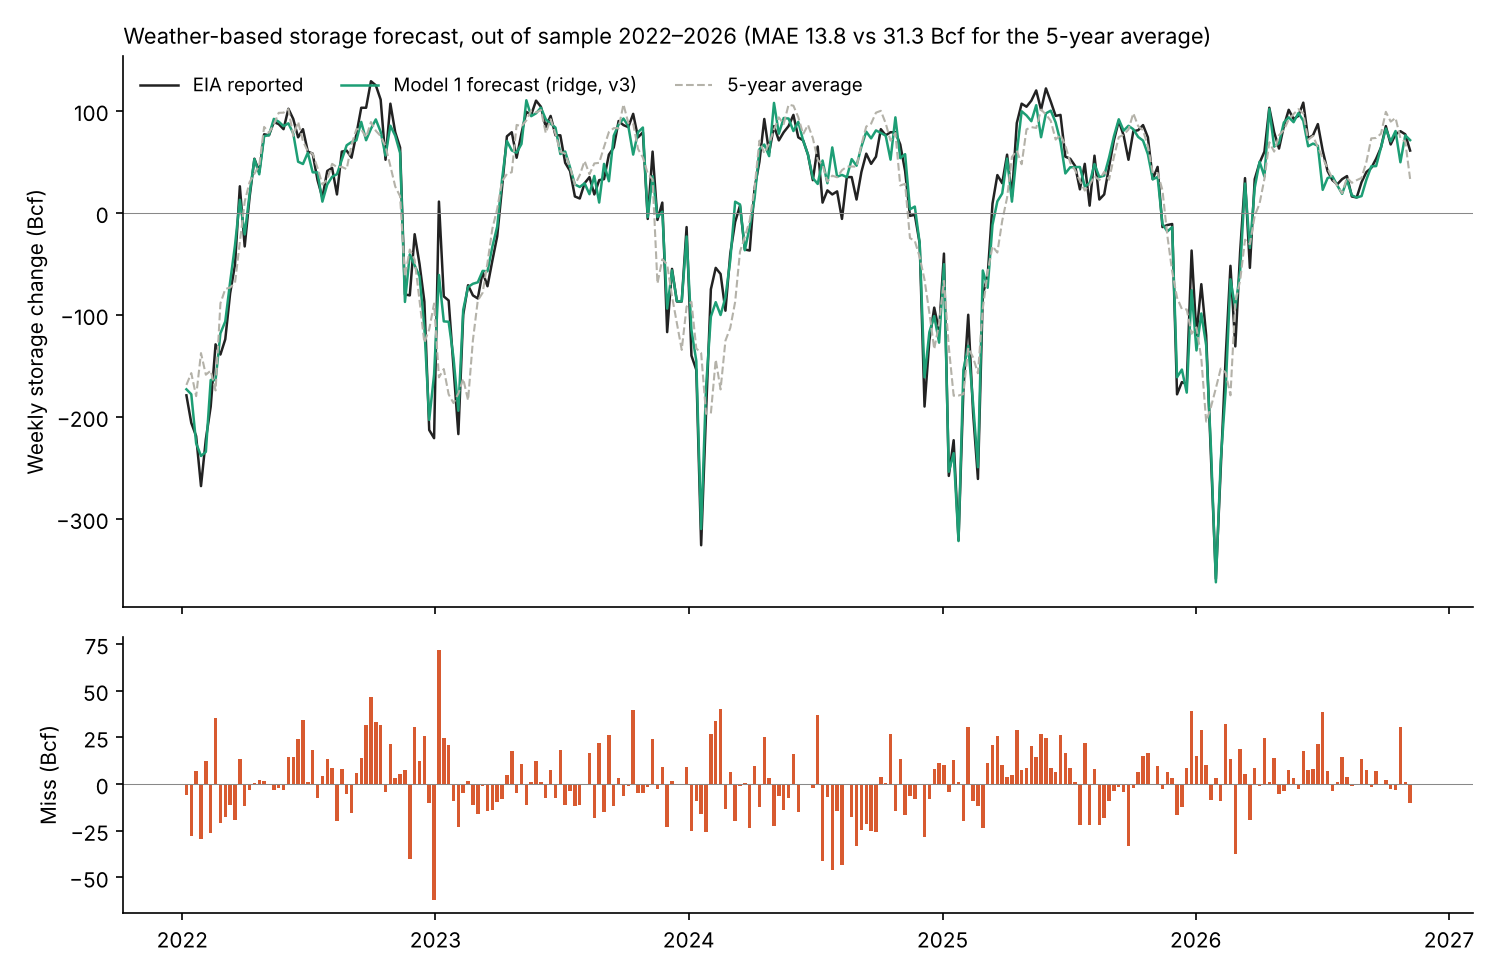
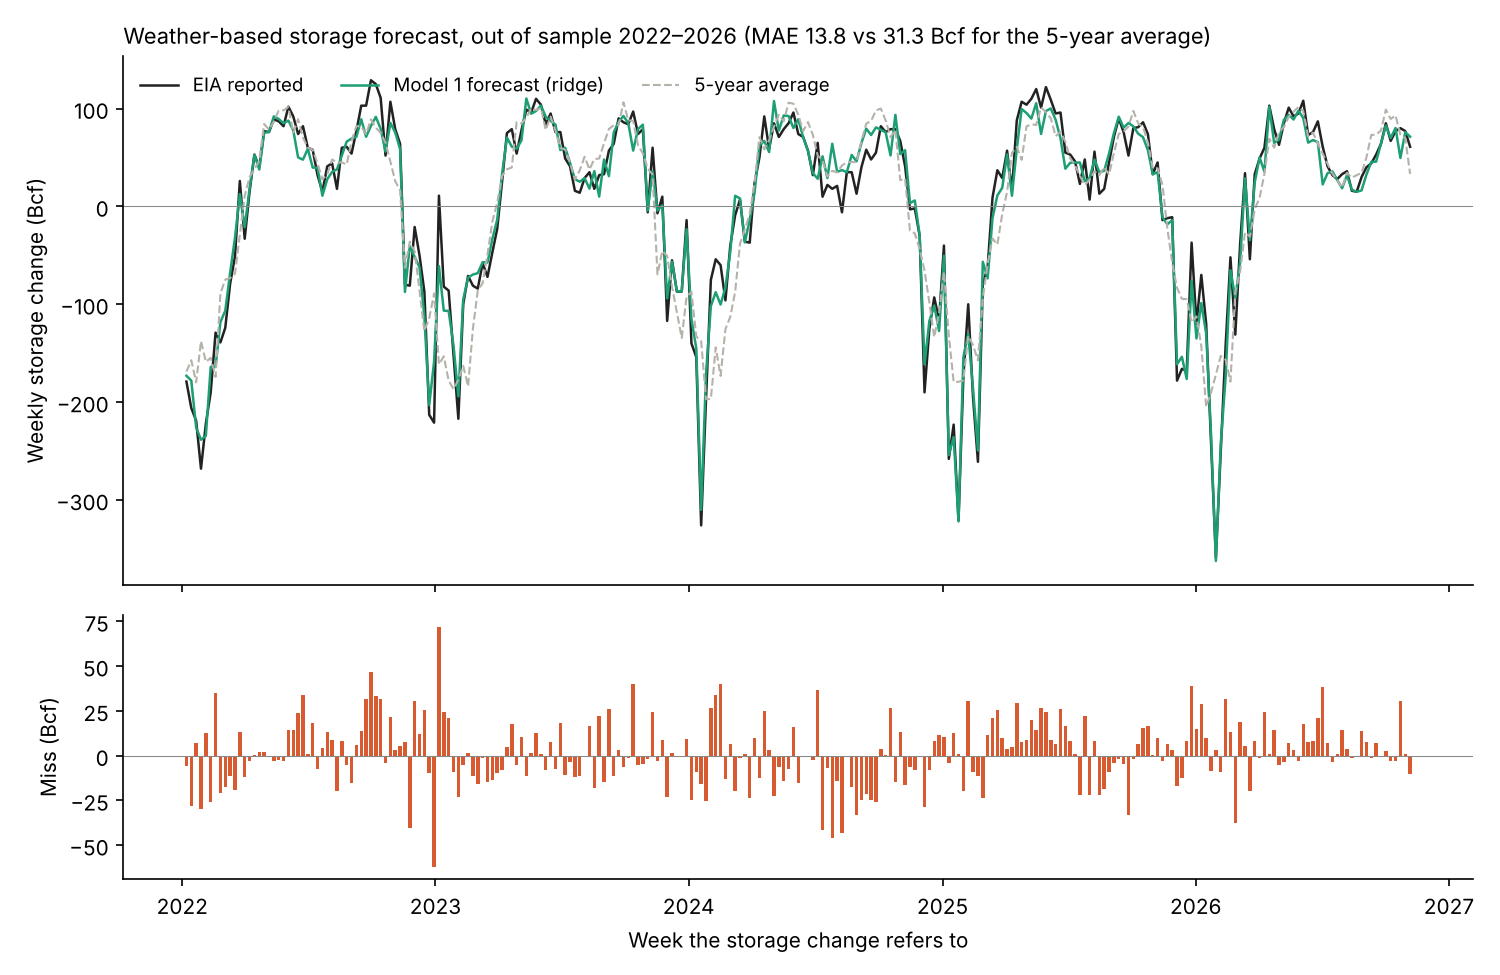
Model 2: live end-of-season forecast in the weekly job; relabelled fan chart; plots script
Claude-Session: https://claude.ai/code/session_01K58r6NjGjQ3upEwF6Et9KU

diff --git a/src/model2.py b/src/model2.py
@@ -26,7 +26,7 @@ from pathlib import Path
 import numpy as np
 import pandas as pd
 
-from src.model1 import FEATURES_V2, build_features, load_raw, ridge, walk_forward
+from src.model1 import FEATURES_V2, build_features, holiday_in_week, load_raw, ridge, walk_forward
 
 ROOT = Path(__file__).resolve().parents[1]
 ALPHA = 0.1
@@ -76,10 +76,31 @@ class Simulator:
         wf = walk_forward(self.df, ridge(ALPHA), pd.Timestamp("2016-01-01"), features=FEATURES_V2)
         self.resid = (self.df.loc[wf.index, "chg"] - wf).rename("resid")
 
+    def _calendar_row(self, d):
+        """Calendar inputs for a week not yet in the data (live use), built exactly as in
+        Model 1: same calendar date in each of the previous 5 years, nearest week +-3 days."""
+        chg = self.s["storage_bcf"].diff()
+        out = {}
+        for name, series in (("chg_5y", chg), ("hdd_5y", self.w["hdd"]), ("cdd_5y", self.w["cdd"])):
+            vals = []
+            for k in range(1, 6):
+                a = nearest(series.index, d - pd.DateOffset(years=k))
+                if a is not None and not np.isnan(series[a]):
+                    vals.append(series[a])
+            if len(vals) < 5:
+                raise ValueError(f"not enough history for {name} at {d.date()}")
+            out[name] = float(np.mean(vals))
+        doy = d.dayofyear
+        out["sin"], out["cos"] = np.sin(2 * np.pi * doy / 365.25), np.cos(2 * np.pi * doy / 365.25)
+        out["holiday"] = int(holiday_in_week(d))
+        return pd.Series(out, name=d)
+
     def _future_rows(self, t, T):
         """Calendar-only inputs for each future week (all from past years -> no leakage)."""
+        cols = ["chg_5y", "hdd_5y", "cdd_5y", "sin", "cos", "holiday"]
         weeks = pd.date_range(t + pd.Timedelta(days=7), T, freq="7D")
-        fut = self.df.reindex(weeks)[["chg_5y", "hdd_5y", "cdd_5y", "sin", "cos", "holiday"]]
+        rows = [self.df.loc[d, cols] if d in self.df.index else self._calendar_row(d) for d in weeks]
+        fut = pd.DataFrame(rows, index=weeks)[cols]
         if fut.isna().any().any():
             raise ValueError("calendar inputs missing for some future week")
         return fut
@@ -204,6 +225,33 @@ class Simulator:
                 "levels": level}
 
 
+def live_end_of_season(now=None):
+    """Forecast end-of-season storage from the latest reported week; append to the log."""
+    from datetime import datetime, timezone
+    log_path = ROOT / "reports/live_end_of_season.csv"
+    sim = Simulator()
+    t = sim.df.index.max()  # latest week with reported storage and weather
+    r = sim.simulate(t)
+    if r is None:
+        print("No season target from", t.date())
+        return None
+    now = now or datetime.now(timezone.utc)
+    row = {"forecast_made_utc": pd.Timestamp(now).strftime("%Y-%m-%d %H:%M"),
+           "origin_week": t.date().isoformat(), "target_week": r["target"].date().isoformat(),
+           "weeks_to_go": r["weeks_to_go"], "p10_bcf": round(r["p10"]), "median_bcf": round(r["median"]),
+           "p90_bcf": round(r["p90"]), "five_year_path_bcf": round(r["benchmark"]),
+           "prob_below_five_year_path": round(float((r["levels"] < r["benchmark"]).mean()), 2),
+           "n_scenarios": r["n_scenarios"], "model": "Model 2 v2"}
+    log = pd.read_csv(log_path) if log_path.exists() else pd.DataFrame(columns=list(row))
+    if ((log["origin_week"] == row["origin_week"]) & (log["target_week"] == row["target_week"])).any():
+        print("End-of-season forecast already logged for origin", row["origin_week"])
+        return None
+    pd.concat([log, pd.DataFrame([row])], ignore_index=True).to_csv(log_path, index=False)
+    print(f"End-of-season ({row['target_week']}) from {row['origin_week']}: median {row['median_bcf']} Bcf, "
+          f"80% range {row['p10_bcf']}-{row['p90_bcf']}; 5-yr path {row['five_year_path_bcf']}")
+    return row
+
+
 def backtest(start=VAL_START, with_resid=True, seed=0):
     sim = Simulator(seed=seed)
     rows = []
@@ -247,6 +295,9 @@ def summarize(bt):
 
 if __name__ == "__main__":
     import sys
+    if len(sys.argv) > 1 and sys.argv[1] == "live":
+        live_end_of_season()
+        sys.exit()
     tag = sys.argv[1] if len(sys.argv) > 1 else "v1"
     bt = backtest()
     bt.to_csv(ROOT / f"data/processed/model2_backtest_{tag}.csv", index=False)

diff --git a/src/plots.py b/src/plots.py
@@ -1,0 +1,66 @@
+"""Figures for the README and note.  python -m src.plots"""
+from pathlib import Path
+
+import matplotlib
+import pandas as pd
+
+matplotlib.use("Agg")
+import matplotlib.pyplot as plt  # noqa: E402
+
+ROOT = Path(__file__).resolve().parents[1]
+FIG = ROOT / "reports/figures"
+
+
+def model1_holdout(tag="v3_own"):
+    p = pd.read_csv(ROOT / f"data/processed/model1_predictions_{tag}.csv", index_col=0, parse_dates=True)
+    r = [c for c in p if c.startswith("Ridge")][0]
+    h = p[p.index >= "2022-01-01"]
+    e = h.actual - h[r]
+    fig, ax = plt.subplots(2, 1, figsize=(10, 6.5), sharex=True, gridspec_kw={"height_ratios": [2, 1]})
+    ax[0].plot(h.index, h.actual, color="#222", lw=1.2, label="EIA reported")
+    ax[0].plot(h.index, h[r], color="#1D9E75", lw=1.2, label="Model 1 forecast (ridge)")
+    ax[0].plot(h.index, h["5-year average"], color="#B4B2A9", lw=1, ls="--", label="5-year average")
+    ax[0].axhline(0, color="#888", lw=.5)
+    ax[0].set_ylabel("Weekly storage change (Bcf)")
+    ax[0].legend(frameon=False, ncol=3, loc="upper left", fontsize=9)
+    ax[1].bar(h.index, e, width=5, color="#D85A30")
+    ax[1].set_ylabel("Miss (Bcf)")
+    ax[1].axhline(0, color="#888", lw=.5)
+    ax[1].set_xlabel("Week the storage change refers to")
+    for a in ax:
+        a.spines[["top", "right"]].set_visible(False)
+    ax[0].set_title(f"Weather-based storage forecast, out of sample 2022–2026 "
+                    f"(MAE {e.abs().mean():.1f} vs {(h.actual - h['5-year average']).abs().mean():.1f} Bcf "
+                    f"for the 5-year average)", loc="left", fontsize=10.5)
+    plt.tight_layout()
+    plt.savefig(FIG / "model1_holdout.png", dpi=150)
+    plt.close()
+
+
+def model2_fans(tag="v2", targets=(("2025-03-28", "Winter 2024–25"), ("2025-10-31", "Summer 2025"))):
+    b = pd.read_csv(ROOT / f"data/processed/model2_backtest_{tag}.csv", parse_dates=["origin", "target"])
+    fig, axs = plt.subplots(1, 2, figsize=(11.5, 4.6))
+    for ax, (T, label) in zip(axs, targets):
+        d = b[b.target == T].sort_values("origin")
+        end = "end-March" if d.season.iloc[0] == "winter" else "end-October"
+        ax.fill_between(d.origin, d.p10, d.p90, color="#9FE1CB", alpha=.6, label="Model 2: 80% range")
+        ax.plot(d.origin, d["median"], color="#0F6E56", lw=1.5, label="Model 2: median forecast")
+        ax.plot(d.origin, d.benchmark, color="#888780", lw=1, ls="--", label="5-year-average path")
+        ax.axhline(d.actual.iloc[0], color="#D85A30", lw=1.2,
+                   label=f"Actual {end} storage ({d.actual.iloc[0]:,.0f} Bcf)")
+        ax.set_title(f"{label}: forecasts of {end} storage", loc="left", fontsize=10)
+        ax.set_ylabel(f"Forecast of {end} storage (Bcf)")
+        ax.set_xlabel("Date the forecast was made")
+        ax.spines[["top", "right"]].set_visible(False)
+        ax.tick_params(axis="x", labelrotation=30, labelsize=8)
+        ax.legend(frameon=False, fontsize=8, loc="lower left" if end == "end-March" else "lower right")
+    plt.suptitle("Model 2, out of sample: each week's forecast of one fixed end-of-season number. "
+                 "The range should narrow and contain the actual.", x=0.01, ha="left", fontsize=10.5)
+    plt.tight_layout()
+    plt.savefig(FIG / "model2_fans.png", dpi=150)
+    plt.close()
+
+
+if __name__ == "__main__":
+    model1_holdout()
+    model2_fans()

diff --git a/src/live.py b/src/live.py
@@ -169,6 +169,11 @@ def auto():
         forecast()
     except ValueError as e:  # already logged, or week not finished: nothing to do
         print("No new forecast:", e)
+    try:  # Model 2: end-of-season storage from the latest reported week
+        from src.model2 import live_end_of_season
+        live_end_of_season()
+    except Exception as e:  # never let Model 2 block the weekly Model 1 forecast
+        print("End-of-season forecast skipped:", type(e).__name__, e)
 
 
 if __name__ == "__main__":

diff --git a/README.md b/README.md
@@ -15,7 +15,7 @@ The rules are fixed in [`reports/protocol.md`](reports/protocol.md): timing, sam
 - **Model 3, futures spreads:** pending price data.
 
 ## Live record
-A GitHub Action ([`live_forecast.yml`](.github/workflows/live_forecast.yml)) runs every Wednesday at 12:00 UTC, before EIA's release. It refreshes storage from EIA's bulk file, scores last week's forecast, and commits this week's forecast to [`reports/live_forecasts.csv`](reports/live_forecasts.csv). The bot's commit time is the timestamp.
+A GitHub Action ([`live_forecast.yml`](.github/workflows/live_forecast.yml)) runs every Wednesday at 12:00 UTC, before EIA's release. It refreshes storage from EIA's bulk file, scores last week's forecast, and commits this week's forecast to [`reports/live_forecasts.csv`](reports/live_forecasts.csv). The bot's commit time is the timestamp. The same run also logs Model 2's end-of-season forecast to [`reports/live_end_of_season.csv`](reports/live_end_of_season.csv).
 
 ## Run
 ```
@@ -27,3 +27,5 @@ python -m pytest tests            # no-look-ahead checks
 ```
 
 ![Model 1 holdout](reports/figures/model1_holdout.png)
+
+![Model 2 fans](reports/figures/model2_fans.png)

diff --git a/reports/protocol.md b/reports/protocol.md
@@ -128,4 +128,11 @@ Against the protocol's criteria:
   - Validation: does not beat it at any horizon.
   - Beyond 8 weeks the median adds nothing over the 5-year path. Its value is the calibrated range, not a better centre.
 
-Figure: `reports/figures/model2_fans.png`.
+Figure: `reports/figures/model2_fans.png`, generated by `src/plots.py`.
+
+Known weakness: ranges made at the start of winter (19 or more weeks to go) are too wide. All 21 such forecasts in 2018–2025 contained the actual, against 80% expected.
+
+### Live end-of-season record
+- From 2026-11-19, the weekly job also logs Model 2's forecast of end-of-season storage to `reports/live_end_of_season.csv`. Each row gives the median, the 80% range, the 5-year path, and the probability of finishing below that path.
+- For weeks not yet in the data, the calendar inputs are rebuilt with the same rule as Model 1. They were checked to match Model 1 exactly on three historical weeks.
+- First entry, from storage through 2026-11-06: end-March 2027 median 1,968 Bcf, 80% range 1,253–2,688 Bcf, 5-year path 1,922 Bcf.
